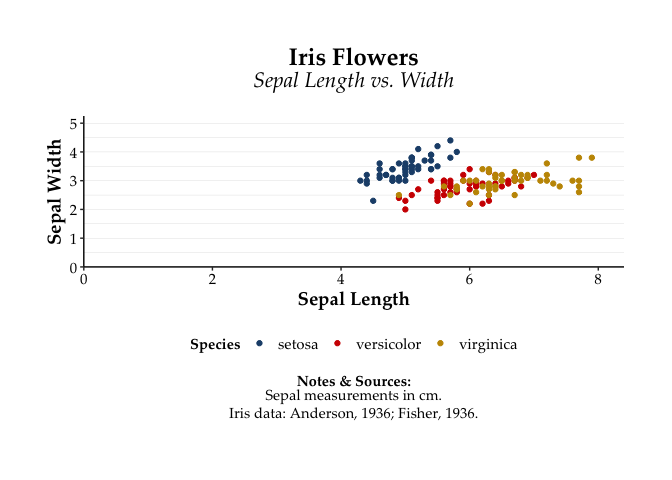
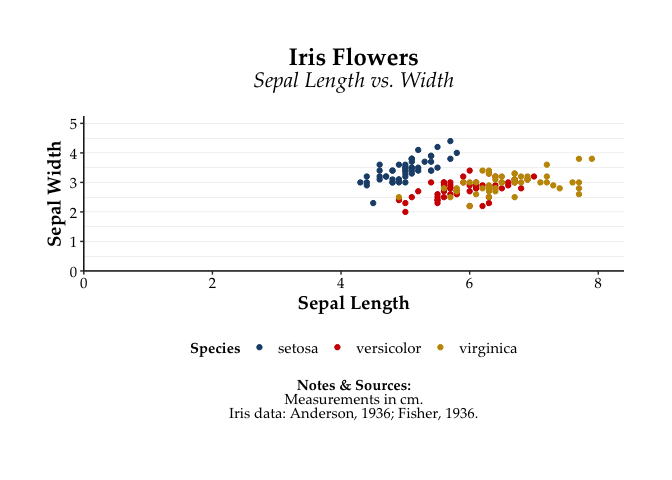
readme breaks update

diff --git a/README.md b/README.md
@@ -52,9 +52,11 @@ theme_clean(plot)
 ``` r
 
 # add notes and sources
+sources <- c("Measurements in cm.","Iris data: Anderson, 1936; Fisher, 1936.")
+
 theme_clean(plot,
             font = "Palatino Linotype",
-            caption = c("Sepal measurements in cm.","Iris data: Anderson, 1936; Fisher, 1936."))
+            caption = sources)
 ```
 
 <img src="man/figures/README-example1-3.png" width="100%" />
@@ -64,7 +66,7 @@ theme_clean(plot,
 # includes parameters for formatting shortcuts
 theme_clean(plot,
             font = "Palatino Linotype",
-            caption = c("Sepal measurements in cm.","Iris data: Anderson, 1936; Fisher, 1936."),
+            caption = sources,
             xlims=c(0,8), ylims=c(0,5), ylines = TRUE)
 ```
 
@@ -75,7 +77,7 @@ theme_clean(plot,
 # save plot
 theme_clean(plot,
             font = "Palatino Linotype",
-            caption = c("Sepal measurements in cm.","Iris data: Anderson, 1936; Fisher, 1936."),
+            caption = sources,
             save_filename = "man/figures/iris.pdf", save_paper_size = "letter", save_orientation = "landscape")
 ```
 
@@ -91,7 +93,7 @@ plot2 <- ggplot(iris, aes(x=Petal.Length, y=Petal.Width, color=Species)) +
 
 theme_clean(list(plot, plot2),
             font = "Palatino Linotype",
-            caption = c("Measurements in cm.","Iris data: Anderson, 1936; Fisher, 1936."),
+            caption = sources,
             save_filename = "man/figures/iris2.pdf")
 #> [[1]]
 ```
@@ -105,19 +107,20 @@ theme_clean(list(plot, plot2),
 
 ``` r
 # bar chart example
-plot3 <- ggplot(USPersonalExpenditure, aes(x=year, y=expenditure, fill=category)) +
+plot3 <- ggplot(PersonalExpenditure, aes(x=year, y=expenditure, fill=category)) +
   geom_col(position=position_dodge(width = .9), color="black", width = .8) +
   geom_text(aes(label = dollar(expenditure, 1)), 
             position = position_dodge(width = .9), vjust=-.5, size=3) +
   labs(title="US Personal Expenditures", subtitle="1945 \u2013 1960",
-       y="Expenditures (bn)", x="Year")
+       y="Expenditures (bn)", x="Year", fill=NULL)
 
 sources <- c("Tukey, J. W. (1977) Exploratory Data Analysis. Addison-Wesley.",
              "McNeil, D. R. (1977) Interactive Data Analysis. Wiley.")
 
 theme_clean(plot3, 
             caption = sources, caption_title = "Sources:", 
-            ylabels = dollar, ylims=c(0,100), ybreaks = seq(0,100,25))
+            ylabels = dollar, ybreaks = seq(0,100,25),
+            legend_rows = 2)
 ```
 
-<img src="man/figures/README-unnamed-chunk-3-1.png" width="100%" />
+<img src="man/figures/README-example2-1.png" width="100%" />
